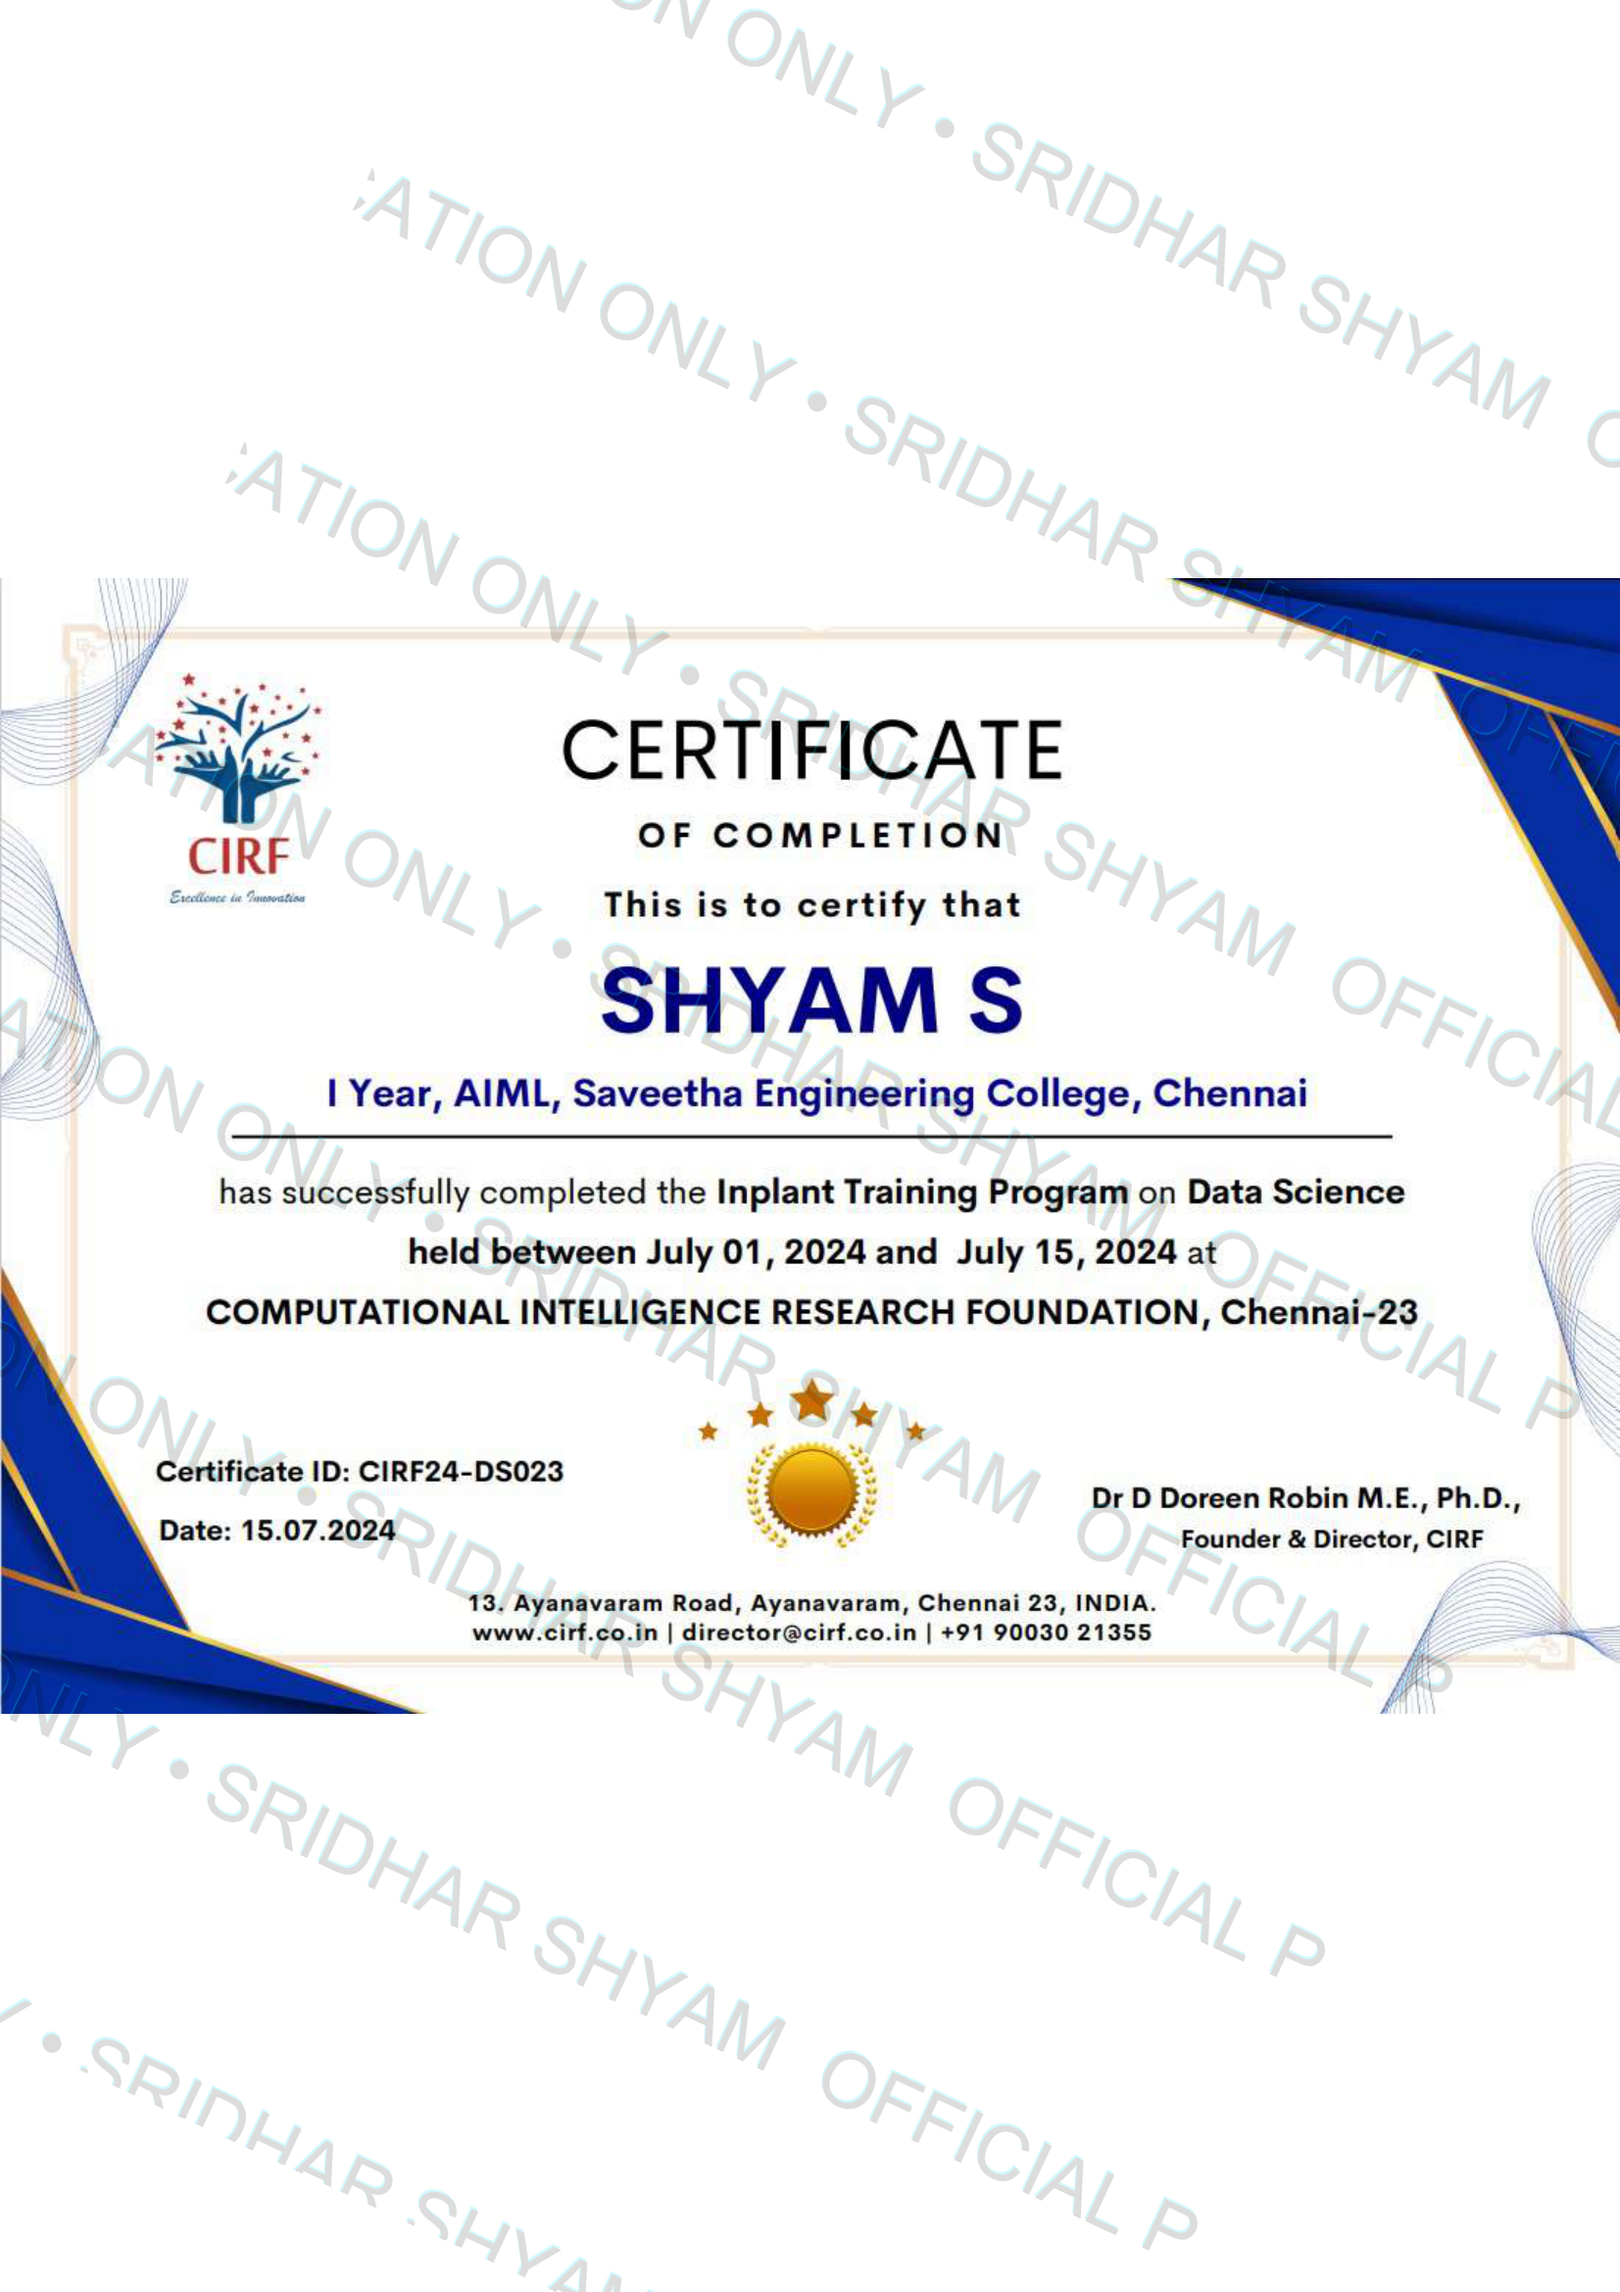
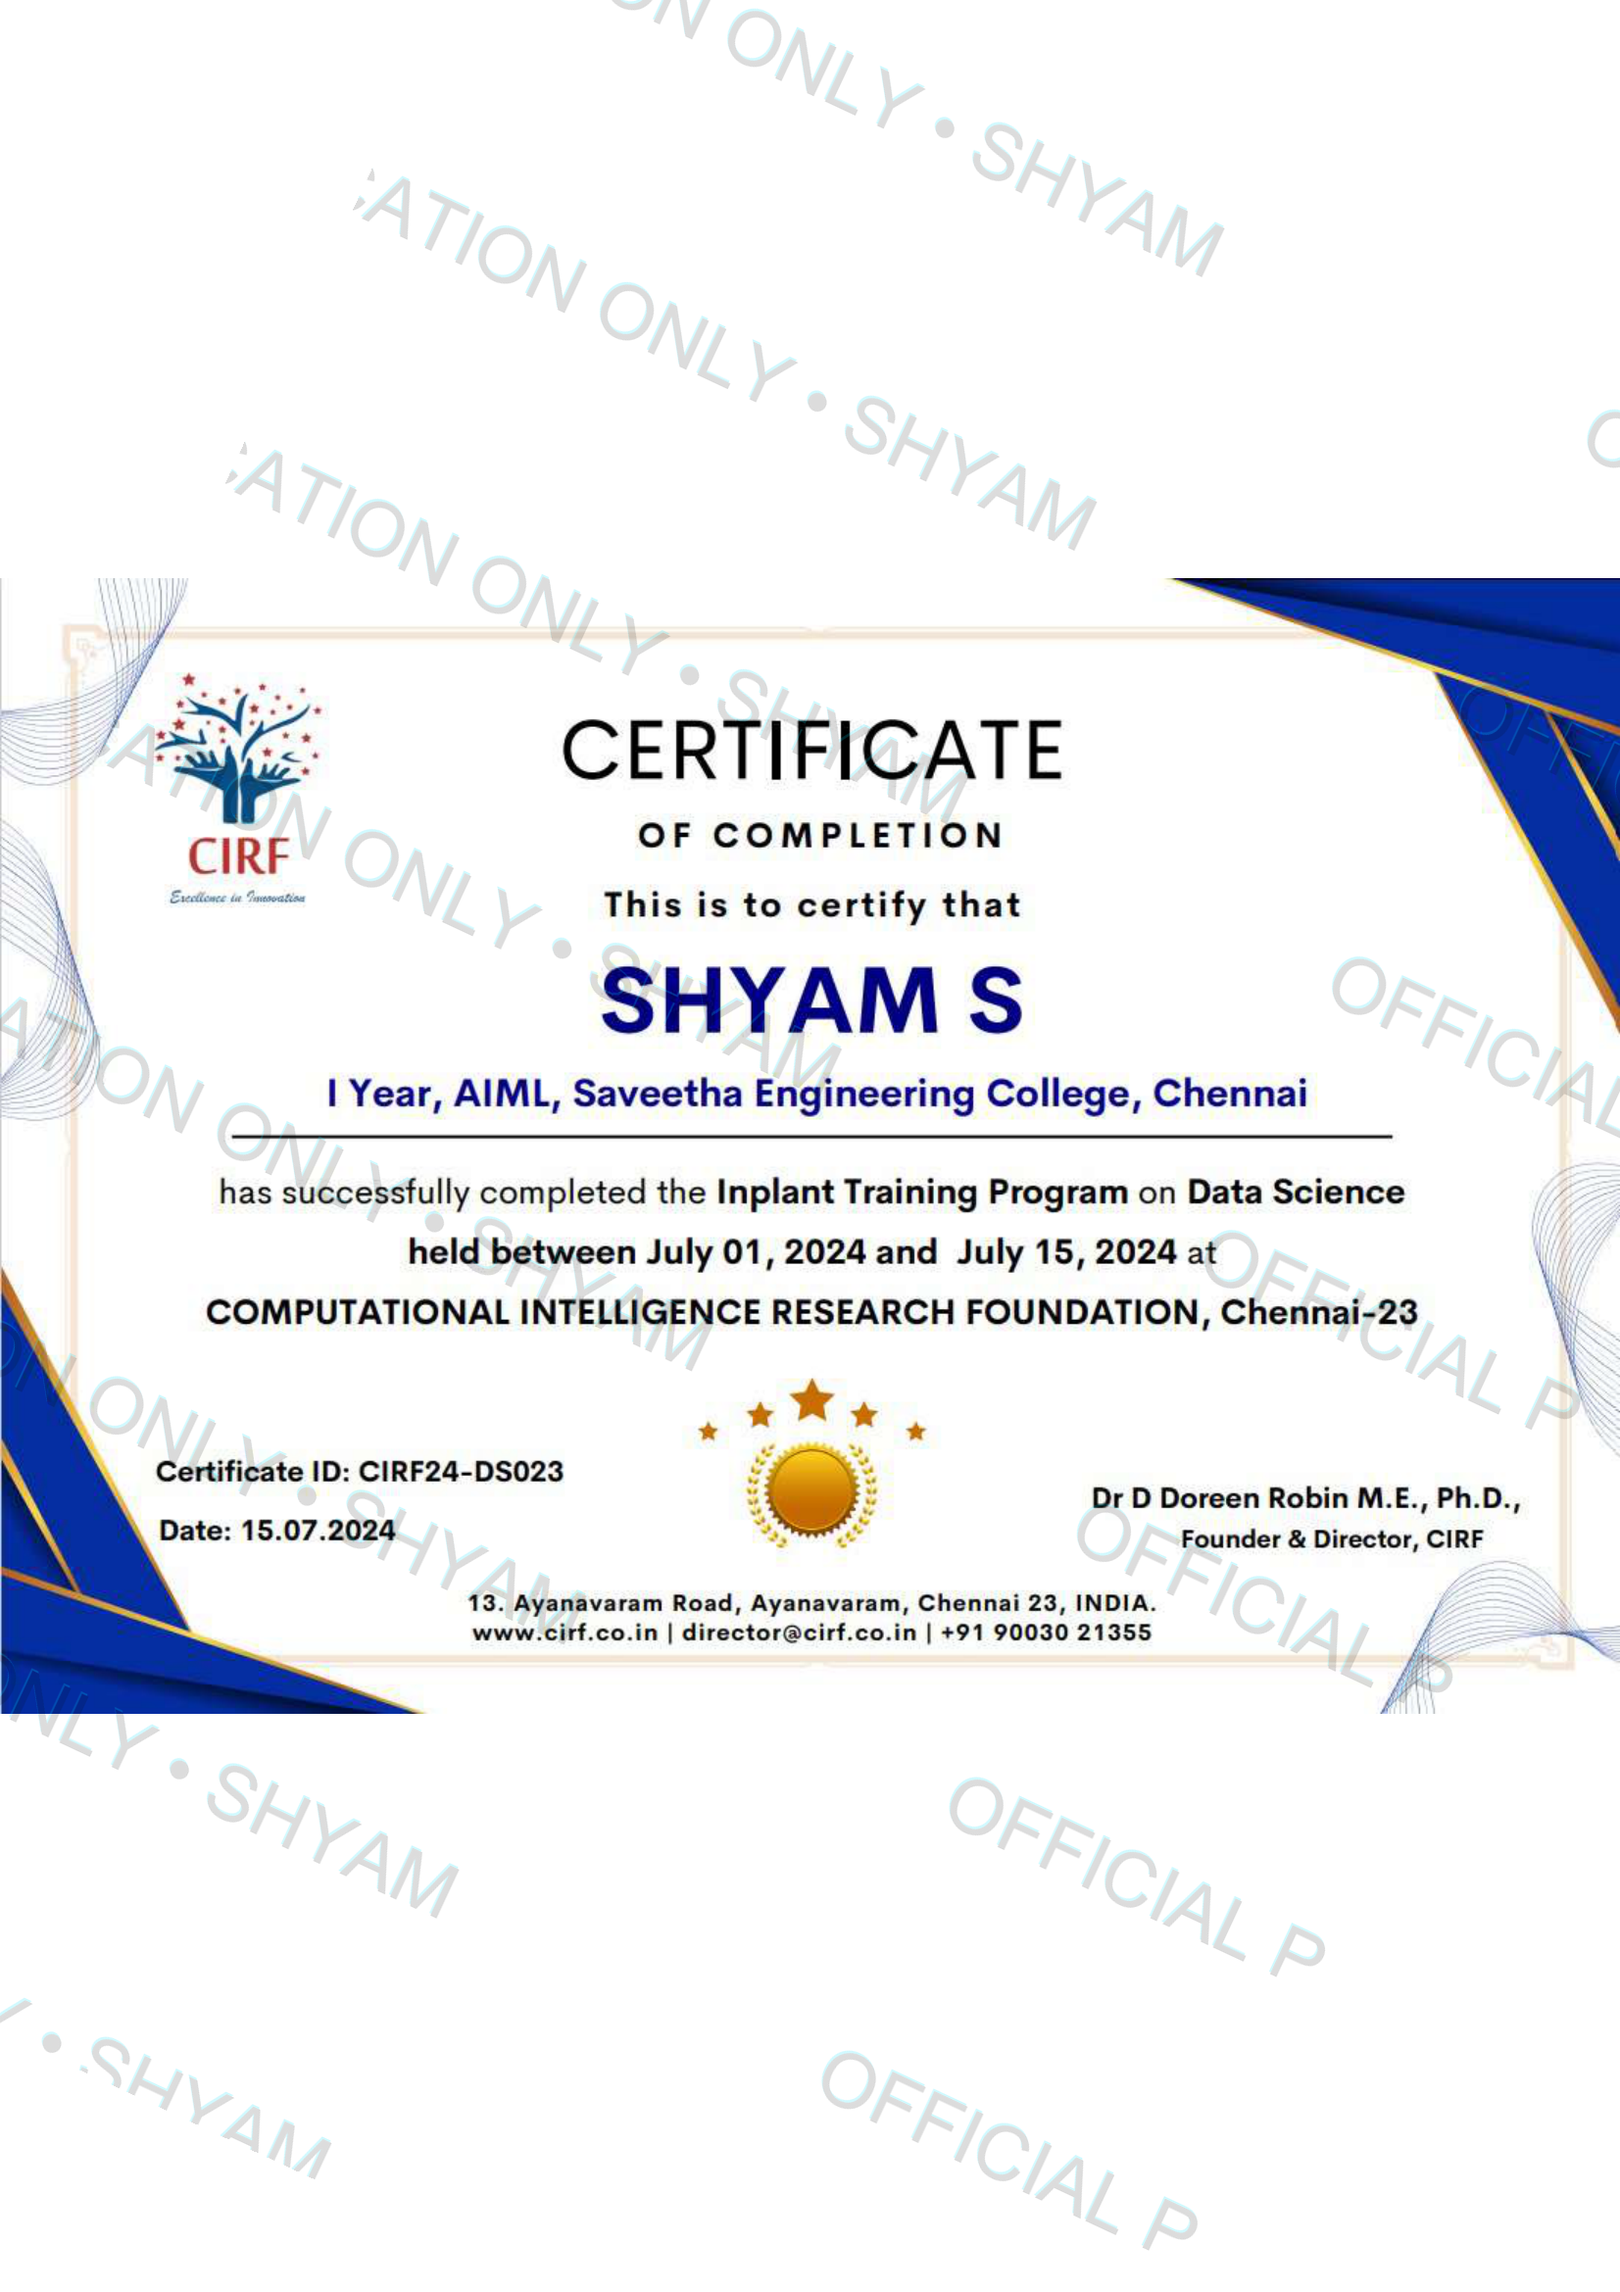
Update name across portfolio metadata, watermarks, and lightbox to SHYAM

diff --git a/index.html b/index.html
@@ -4,9 +4,9 @@
     <meta charset="UTF-8" />
     <link rel="icon" type="image/png" href="/favicon.png" />
     <meta name="viewport" content="width=device-width, initial-scale=1.0" />
-    <meta name="description" content="Portfolio of Sridhar Shyam, an AI & ML/Data Science Student from Chennai. Focused on designing data-driven systems, machine learning models, and intelligent applications that solve real-world problems beyond notebooks." />
-    <meta name="keywords" content="Data Science, Machine Learning, AI, Sridhar Shyam, RetailMind, HealthSentinel, SMB Solutions" />
-    <meta name="author" content="Sridhar Shyam" />
+    <meta name="description" content="Portfolio of Shyam, an AI & ML/Data Science Student from Chennai. Focused on designing data-driven systems, machine learning models, and intelligent applications that solve real-world problems beyond notebooks." />
+    <meta name="keywords" content="Data Science, Machine Learning, AI, Shyam, RetailMind, HealthSentinel, SMB Solutions" />
+    <meta name="author" content="Shyam" />
 
     <!-- Open Graph / Facebook -->
     <meta property="og:type" content="website" />

diff --git a/src/components/sections/Journey.jsx b/src/components/sections/Journey.jsx
@@ -745,7 +745,7 @@ const Journey = () => {
                         >
                             <div className="absolute top-4 left-4 z-30 px-4 py-2 rounded-full bg-black/90 backdrop-blur-md border border-emerald-500/40 text-emerald-400 font-mono text-xs flex items-center gap-2 shadow-2xl pointer-events-none">
                                 <ShieldCheck size={16} className="text-emerald-400" />
-                                <span>PROTECTED DOCUMENT // VERIFICATION ONLY // SRIDHAR SHYAM</span>
+                                <span>PROTECTED DOCUMENT // VERIFICATION ONLY // SHYAM</span>
                             </div>
 
                             <button
